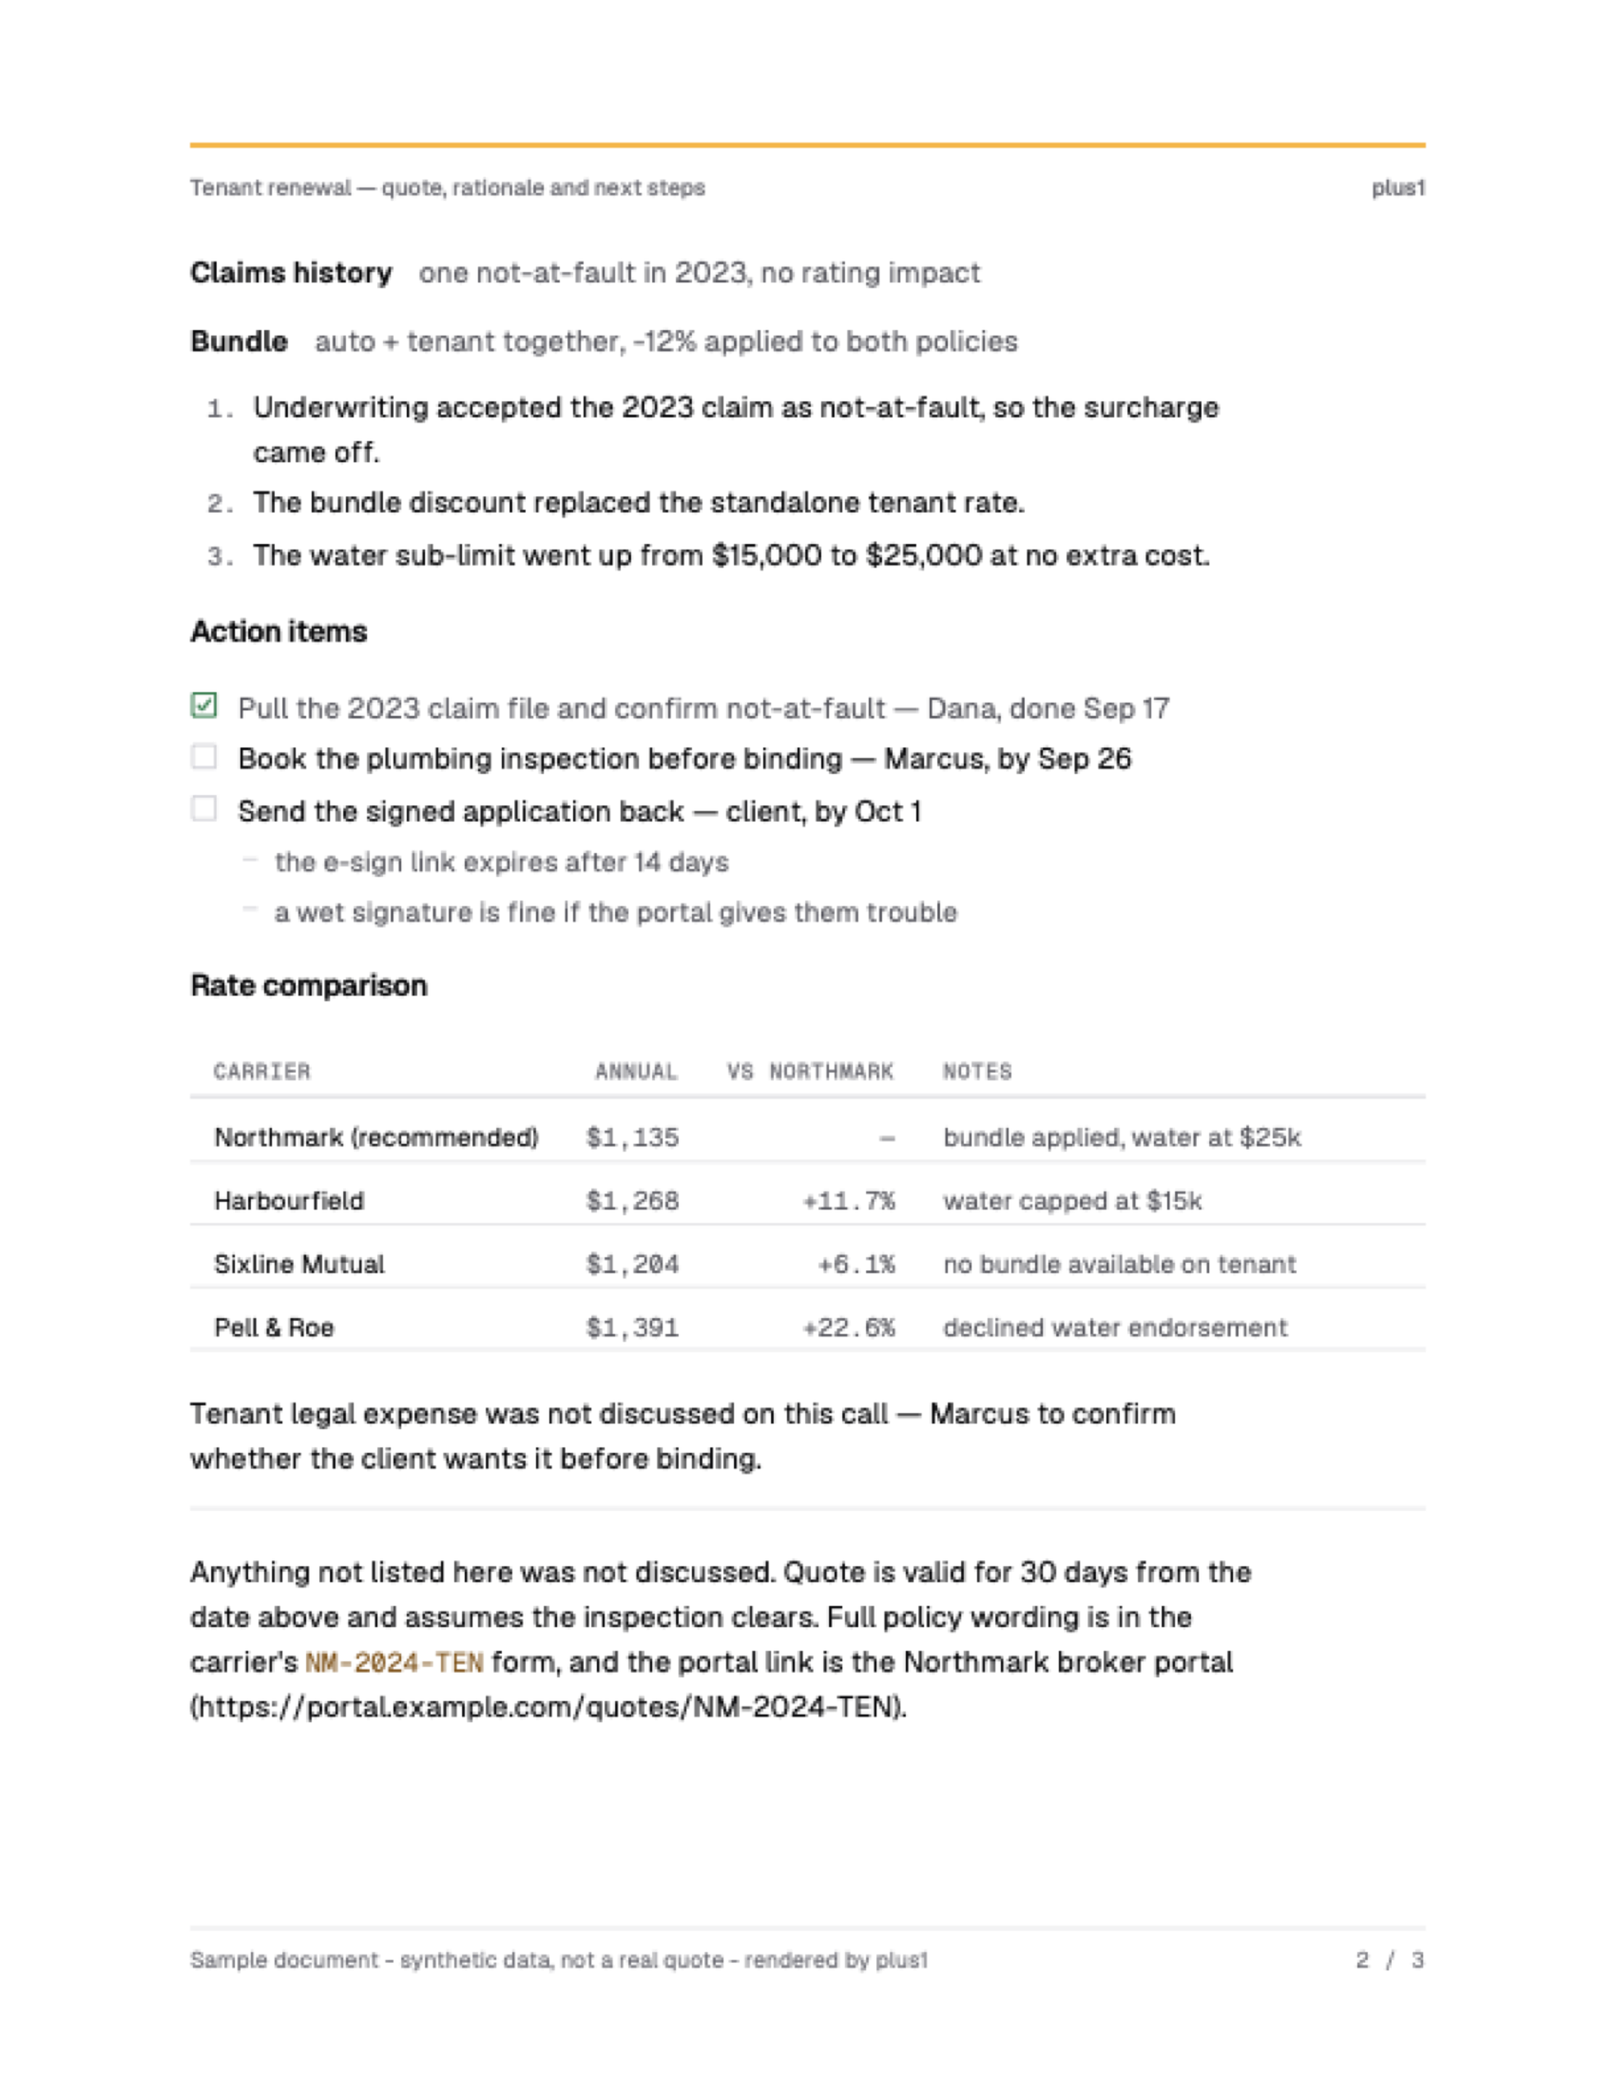
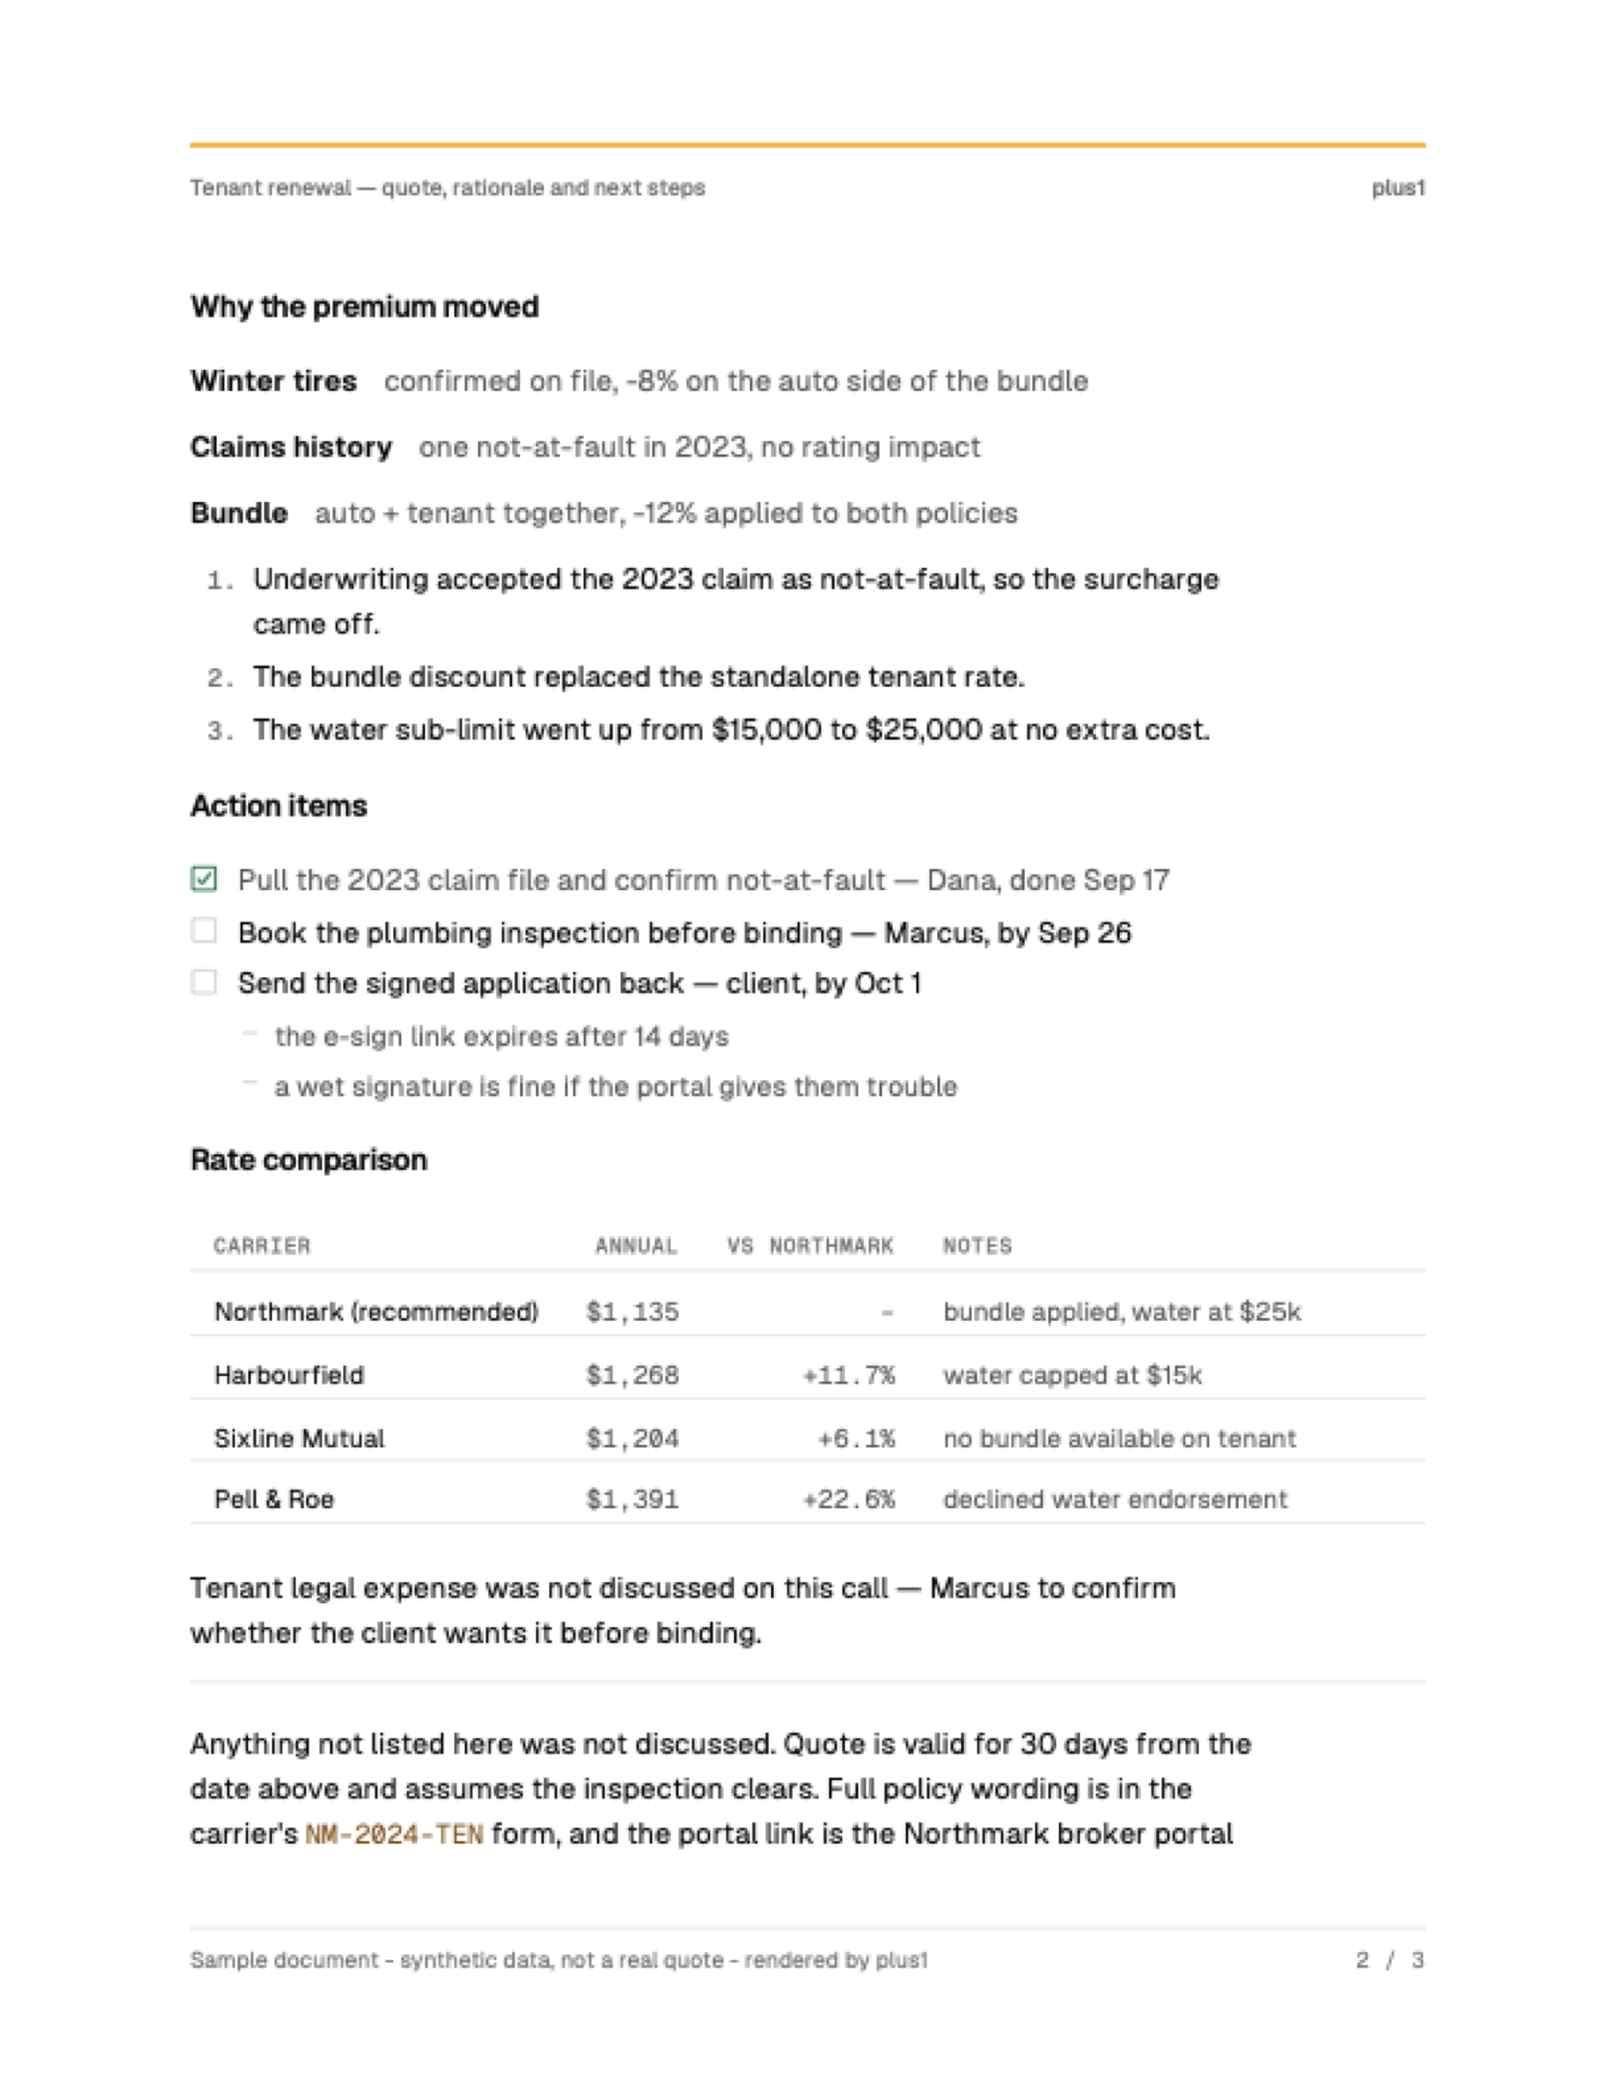
pdf template

Changed region(s): [[0.0935, 0.1236, 0.8106, 0.8964]]

diff --git a/apps/backend/src/docTemplate.ts b/apps/backend/src/docTemplate.ts
@@ -604,6 +604,9 @@ const bare = (s: string): string => s.replace(/\*\*|__|`|\*/g, "").trim();
  */
 const PLACEHOLDER = /^(|-{1,2}|\u2013|\u2014|n\/?a|tbd|\u2022)$/i;
 
+/** The one mark an empty cell gets, whatever the markdown wrote there. */
+const EMPTY_CELL = "\u2013";
+
 interface Table {
   head: string[];
   rows: string[][];
@@ -706,11 +709,14 @@ function drawTable(c: Ctx, t: Table): void {
       draw(c.page, label, { x, y: c.y - 8.2, size: 8.2, font: c.f.monoMedium, color: C.subtle, tracking: 0.4 });
     });
     c.y -= 15;
+    // One hairline ink, not two: the tracked mono uppercase label already
+    // separates the header from the body, so a darker rule here was a second
+    // treatment doing work the type had done.
     c.page.drawLine({
       start: { x: M, y: c.y },
       end: { x: M + FULL_W, y: c.y },
       thickness: 1,
-      color: C.borderStrong,
+      color: C.border,
     });
     c.y -= 4;
   };
@@ -719,16 +725,28 @@ function drawTable(c: Ctx, t: Table): void {
   header();
 
   for (const row of t.rows) {
-    const laid = row.map((cell, i) =>
-      layoutRuns(
+    const laid = row.map((cell, i) => {
+      // "No value here" is one mark, set one way. Leaving it to the column's own
+      // face printed a sans em dash beside a mono one in the same row.
+      if (PLACEHOLDER.test(bare(cell))) {
+        return layoutRuns(
+          [{ text: EMPTY_CELL, style: "plain" }],
+          c.f,
+          CELL,
+          c.f.mono,
+          C.subtle,
+          widths[i] - CELL_PAD * 2,
+        );
+      }
+      return layoutRuns(
         inlineTokens(cell),
         c.f,
         CELL,
         fontFor(i, false),
         i === 0 ? C.ink : C.muted,
         widths[i] - CELL_PAD * 2,
-      ),
-    );
+      );
+    });
     const rowH = Math.max(...laid.map((l) => l.length)) * CELL * 1.5 + 9;
 
     if (c.y - rowH < BOTTOM) {
@@ -970,6 +988,21 @@ function parseBlocks(src: string): Block[] {
   return out;
 }
 
+/**
+ * How tall the run of spec rows starting at `from` is, capped at `max` rows.
+ * Page breaks are decided against this rather than against a guessed constant,
+ * which is what let a three-row group split 1/2 with its heading stranded.
+ */
+function groupHeight(blocks: Block[], from: number, max = 3): number {
+  let h = 0;
+  for (let i = from; i < blocks.length && i - from < max; i++) {
+    const k = blocks[i].kind;
+    if (k !== "def" && k !== "lead") break;
+    h += BODY * LEAD + 8; // the row, plus the gap above it
+  }
+  return h;
+}
+
 function renderBody(c: Ctx, body: string): void {
   const blocks = parseBlocks(normalizeText(body, c.f.geist));
   let prev: Block["kind"] | undefined;
@@ -990,9 +1023,10 @@ function renderBody(c: Ctx, body: string): void {
         // Keep a heading with what follows it: two lines of anything, or three
         // rows when it opens a spec group, so a group never splits 1/2 across
         // a page break with its heading stranded above the fold.
-        const follow =
-          next?.kind === "def" || next?.kind === "lead" ? BODY * LEAD * 3 : BODY * LEAD * 2;
-        need(c, size * 2.4 + follow);
+        const group = groupHeight(blocks, bi + 1);
+        const follow = group || BODY * LEAD * 2;
+        // The heading's own cost: the lead-in gap, its line, and the gap below.
+        need(c, (block.level === 1 ? 15 : 12) + size * 1.28 + (block.level === 1 ? 17 : 6) + follow);
         c.y -= block.level === 1 ? 15 : 12;
         paragraph(c, block.text, {
           size,
@@ -1078,7 +1112,7 @@ function renderBody(c: Ctx, body: string): void {
         // Widow control: a group of spec rows breaks as a group. Reserving the
         // next row's height too is what keeps one lonely row from opening the
         // following page.
-        need(c, next?.kind === "def" ? BODY * LEAD * 2 + 8 : BODY * LEAD);
+        need(c, Math.max(BODY * LEAD, groupHeight(blocks, bi)));
         const lw = widthOf(block.label, c.f.semibold, BODY) + 10;
         draw(c.page, block.label, { x: M, y: c.y - BODY, size: BODY, font: c.f.semibold, color: C.ink });
         const value = layoutRuns(inlineTokens(block.value), c.f, BODY, c.f.sans, C.muted, PROSE_W - lw);

diff --git a/DESIGN.md b/DESIGN.md
@@ -103,3 +103,73 @@ Contrast: body and placeholder ≥4.5:1, large text ≥3:1, verified against the
 than assumed. Browser surfaces are part of the design — selection, caret, scrollbars, focus rings
 and underline offsets are all themed from the palette. Every control has hover, focus-visible,
 disabled, loading, error and empty states.
+
+## Print
+
+The same world on paper. Added when the document renderer (`apps/backend/src/docTemplate.ts`)
+became the first surface to render this design outside a browser. Everything above still holds —
+white ground, near-black ink, one hairline weight, amber as identity — but print settles things no
+web surface could: there is no hover, no state, no motion, and no reflow. What the renderer cannot
+draw, the reader never sees.
+
+**The grid.** US Letter (612×792pt), 1in margins (72pt) so it survives every consumer printer.
+Two measures, not one: **468pt full measure** for rules, tables and the figure band, and a
+**404pt prose measure** (~72ch at 11pt Geist) for body text. Body is 11pt at 1.55 leading. The
+content floor is 78pt, the footer hairline sits at 62pt. Prose never runs the full measure — a
+line of text set to 468pt is a line nobody finishes.
+
+**The masthead.** Amber appears **exactly once per page** and never as text. Page one gets a 3pt
+amber rule bled across the full measure, the `plus1` wordmark under it in 11pt semibold ink, and
+the ISO date right-aligned on the same baseline in 9pt mono `--fg-subtle`. Every page after that
+gets a 2pt amber rule over a running head: the document's title left, `plus1` right, both 8.5pt
+`--fg-subtle`. The running head's title is **sans, not mono** — it is the document's name, and mono
+there would be a costume for "technical" rather than a measured value.
+
+**The Mono-Means-Measured Rule.** Geist Mono carries every measured value and nothing else:
+figures, dates, IDs, table numerals, page numbers, code. Geist carries everything else, including
+headings, prose, table text columns, and the running head. A bolded total inside a numeric column
+stays mono — a total set in the sans breaks the column it is the total of.
+
+**Tracking is real, not faked.** CSS `letter-spacing` has no equivalent in pdf-lib, so display type
+is tracked through the PDF text-state operator (`Tc`) and every measurement compensates for it.
+The web ramp carries over: title 25pt semibold at `-1pt` (−0.04em), H1 16.5pt at `-0.5pt`,
+H2 13pt at `-0.3pt`. Mono labels track *positive* (`+0.4` to `+0.45`), which is what makes an
+uppercase field name legible at 8pt.
+
+**One hairline does all the separating.** 1pt in `--border`, everywhere — the rule under a title,
+between table rows, under a table header, above the footer. There is no second weight and no darker
+rule. `--border-strong` appears only as a drawn mark (bullet dots, the blockquote stripe, an
+unchecked box), never as a divider.
+
+**Two fills, no more.** `--bg-subtle` (#fafafa) grounds the figure band and the code block. Nothing
+else is filled: tables carry no fill at all, no zebra, no header shade, no vertical rules.
+
+**The key-figure band.** The one panel in the document, and the reason it exists: the thing a reader
+came for is almost always a number, and a number inside a sentence is a number nobody can check.
+A `--bg-subtle` panel with no border, 18pt padding, up to six figures in equal columns (three per
+row, two when there are exactly four). Each figure is a 7.5pt mono uppercase tracked label in
+`--fg-subtle` over a 17pt mono medium value in ink, with an optional 8.5pt sans note under it in
+`--fg-muted`. This is the one place tracked mono uppercase is correct: it is a field name on an
+instrument, not an eyebrow over a heading.
+
+**Tables.** 9.8pt cells, 9pt gutters, header in 8.2pt tracked mono uppercase `--fg-subtle`. A
+column whose non-empty body cells are all numbers is a numeric column: it sets itself in mono and
+right-aligns itself even when the source markdown did not say so, because that is what makes a
+column comparable. The first column is ink, the rest `--fg-muted`. Slack in a narrow table goes to
+the widest *text* column, never stretched across the numbers. A table that spans a page repeats its
+header.
+
+**The One Empty Mark Rule.** An absent value is always the same mark: an en dash, in mono, in
+`--fg-subtle` — whatever the source wrote there and whatever face the column uses. Letting each
+column supply its own put a sans em dash beside a mono one in the same row.
+
+**No cover, no contents, no numbering.** Page one starts with the answer. The two category defaults
+this refuses are the Word-file-with-a-logo (centered title, justified prose, figures buried in
+sentences) and the consultancy report cover page. There is no primary action, because it is paper:
+a printed URL is printed in full even when the digital copy is also a live link.
+
+**Degradation is a floor, not a style.** Geist and Geist Mono are embedded as TTF (OFL, under
+`apps/backend/assets/fonts`) with ligatures disabled at embed time. When those files are absent the
+renderer falls back to the PDF core fonts and still produces a document. That fallback is an
+accepted floor for a broken deployment; Helvetica and Courier are not part of this design system
+and no surface should target them.

diff --git a/apps/backend/.impeccable/surfaces/apps-backend-src-docpdf-ts.md b/apps/backend/.impeccable/surfaces/apps-backend-src-docpdf-ts.md
@@ -56,13 +56,15 @@ head of the page; under it, the plus1 wordmark at 11pt semibold ink on the left 
 in 9pt mono at `--fg-subtle` right-aligned on the same baseline. 34pt of air. Title at 25pt
 semibold, tracking -0.04em, wrapping to at most three lines. Subtitle at 11pt `--fg-muted`
 directly under it. A hairline across the measure. Then, when the document carries figures, the
-figure band: a #fafafa panel with no border, each figure's label in 8pt mono uppercase-tracked
+figure band: a #fafafa panel with no border, each figure's label in 7.5pt mono uppercase-tracked
 `--fg-subtle` above its value in 17pt mono medium ink, laid out in equal columns. Then the body.
 There is no primary action — it is paper.
 
 FORM: no concept roll. This is a narrow, precisely specified artifact inside an established
-visual world (DESIGN.md is committed and unchanged), which the playbook routes as a direct
-extension rather than a direction tournament. Seed key: none — extension scope.
+visual world (DESIGN.md's web sections are committed and unchanged), which the playbook routes as a
+direct extension rather than a direction tournament. Seed key: none — extension scope.
+The build's durable print decisions were added to DESIGN.md as a new `## Print` section; nothing
+above it was rewritten.
 
 FINISH: unreviewed and undocumented is unfinished; this build ends with the finish review, the
 verdict, DESIGN.md, and every shipping raster carrying its provenance.
@@ -77,7 +79,37 @@ and a checklist for action items. The brain's `doc_pdf` instruction requires car
 number, date, name and amount from the request verbatim, and requires a table whenever two or
 more comparable figures exist.
 
+## Promoted to DESIGN.md
+
+The reusable half of this build now lives in **DESIGN.md § Print**, because it belongs to the world
+rather than to this file: the print grid (US Letter, 1in margins, 468pt full measure, 404pt prose
+measure), the masthead and running-head rule, the Mono-Means-Measured Rule and the tracking ramp
+drawn through `Tc`, the one-hairline and two-fills constraints, the key-figure band, the table
+rules, and the One Empty Mark Rule. A second document surface (an invoice, a brief, an exported
+summary) inherits those from DESIGN.md without reading this brief. What stays here is everything
+specific to *this* renderer — the content contract above, the pdf-lib workarounds, and the defects
+this build carries.
+
+## Settled during the build
+
+- Ligatures are disabled at embed time. fontkit substitutes Geist's ff/tt/fi ligatures while
+  pdf-lib's width table uses single-glyph advances, which opened a visible hole in the line after
+  every ligature. Do not turn them back on without re-checking the wrap.
+- One hairline: 1pt `--border` everywhere, including the rule that closes a table header. The
+  header separates itself with tracked mono uppercase type; a darker rule was a second treatment.
+- An empty table cell is always the same mark (en dash, mono, `--fg-subtle`), whatever the
+  markdown wrote and whatever face the column uses.
+- Links are real `/Annot /Link` objects with a `/URI` action, and the URL is still printed: this
+  is paper first, and a link nobody can read is useless once it leaves the screen.
+- Spec-row groups and their headings break as a unit, measured from the group's real height.
+
 ## Unresolved
 
 - Geist ships as TTF under `apps/backend/assets/fonts` (OFL). If those files are ever absent the
-  renderer falls back to Helvetica and the document still renders — degraded, never broken.
+  renderer falls back to the PDF core fonts and the document still renders — degraded, never
+  broken. `docFontStatus()` reports it at server boot so this is an operator's problem to know
+  about rather than a reader's to discover. Courier as the fallback mono is a costume face and is
+  accepted only because it is the floor of a degraded path.
+- A short trailing block (the closing code block in the sample) can still take a page of its own
+  when it misses the floor by a few points. No pagination hack was added to chase it; if this
+  becomes common, generalize the keep-with-next reserve beyond spec groups.
